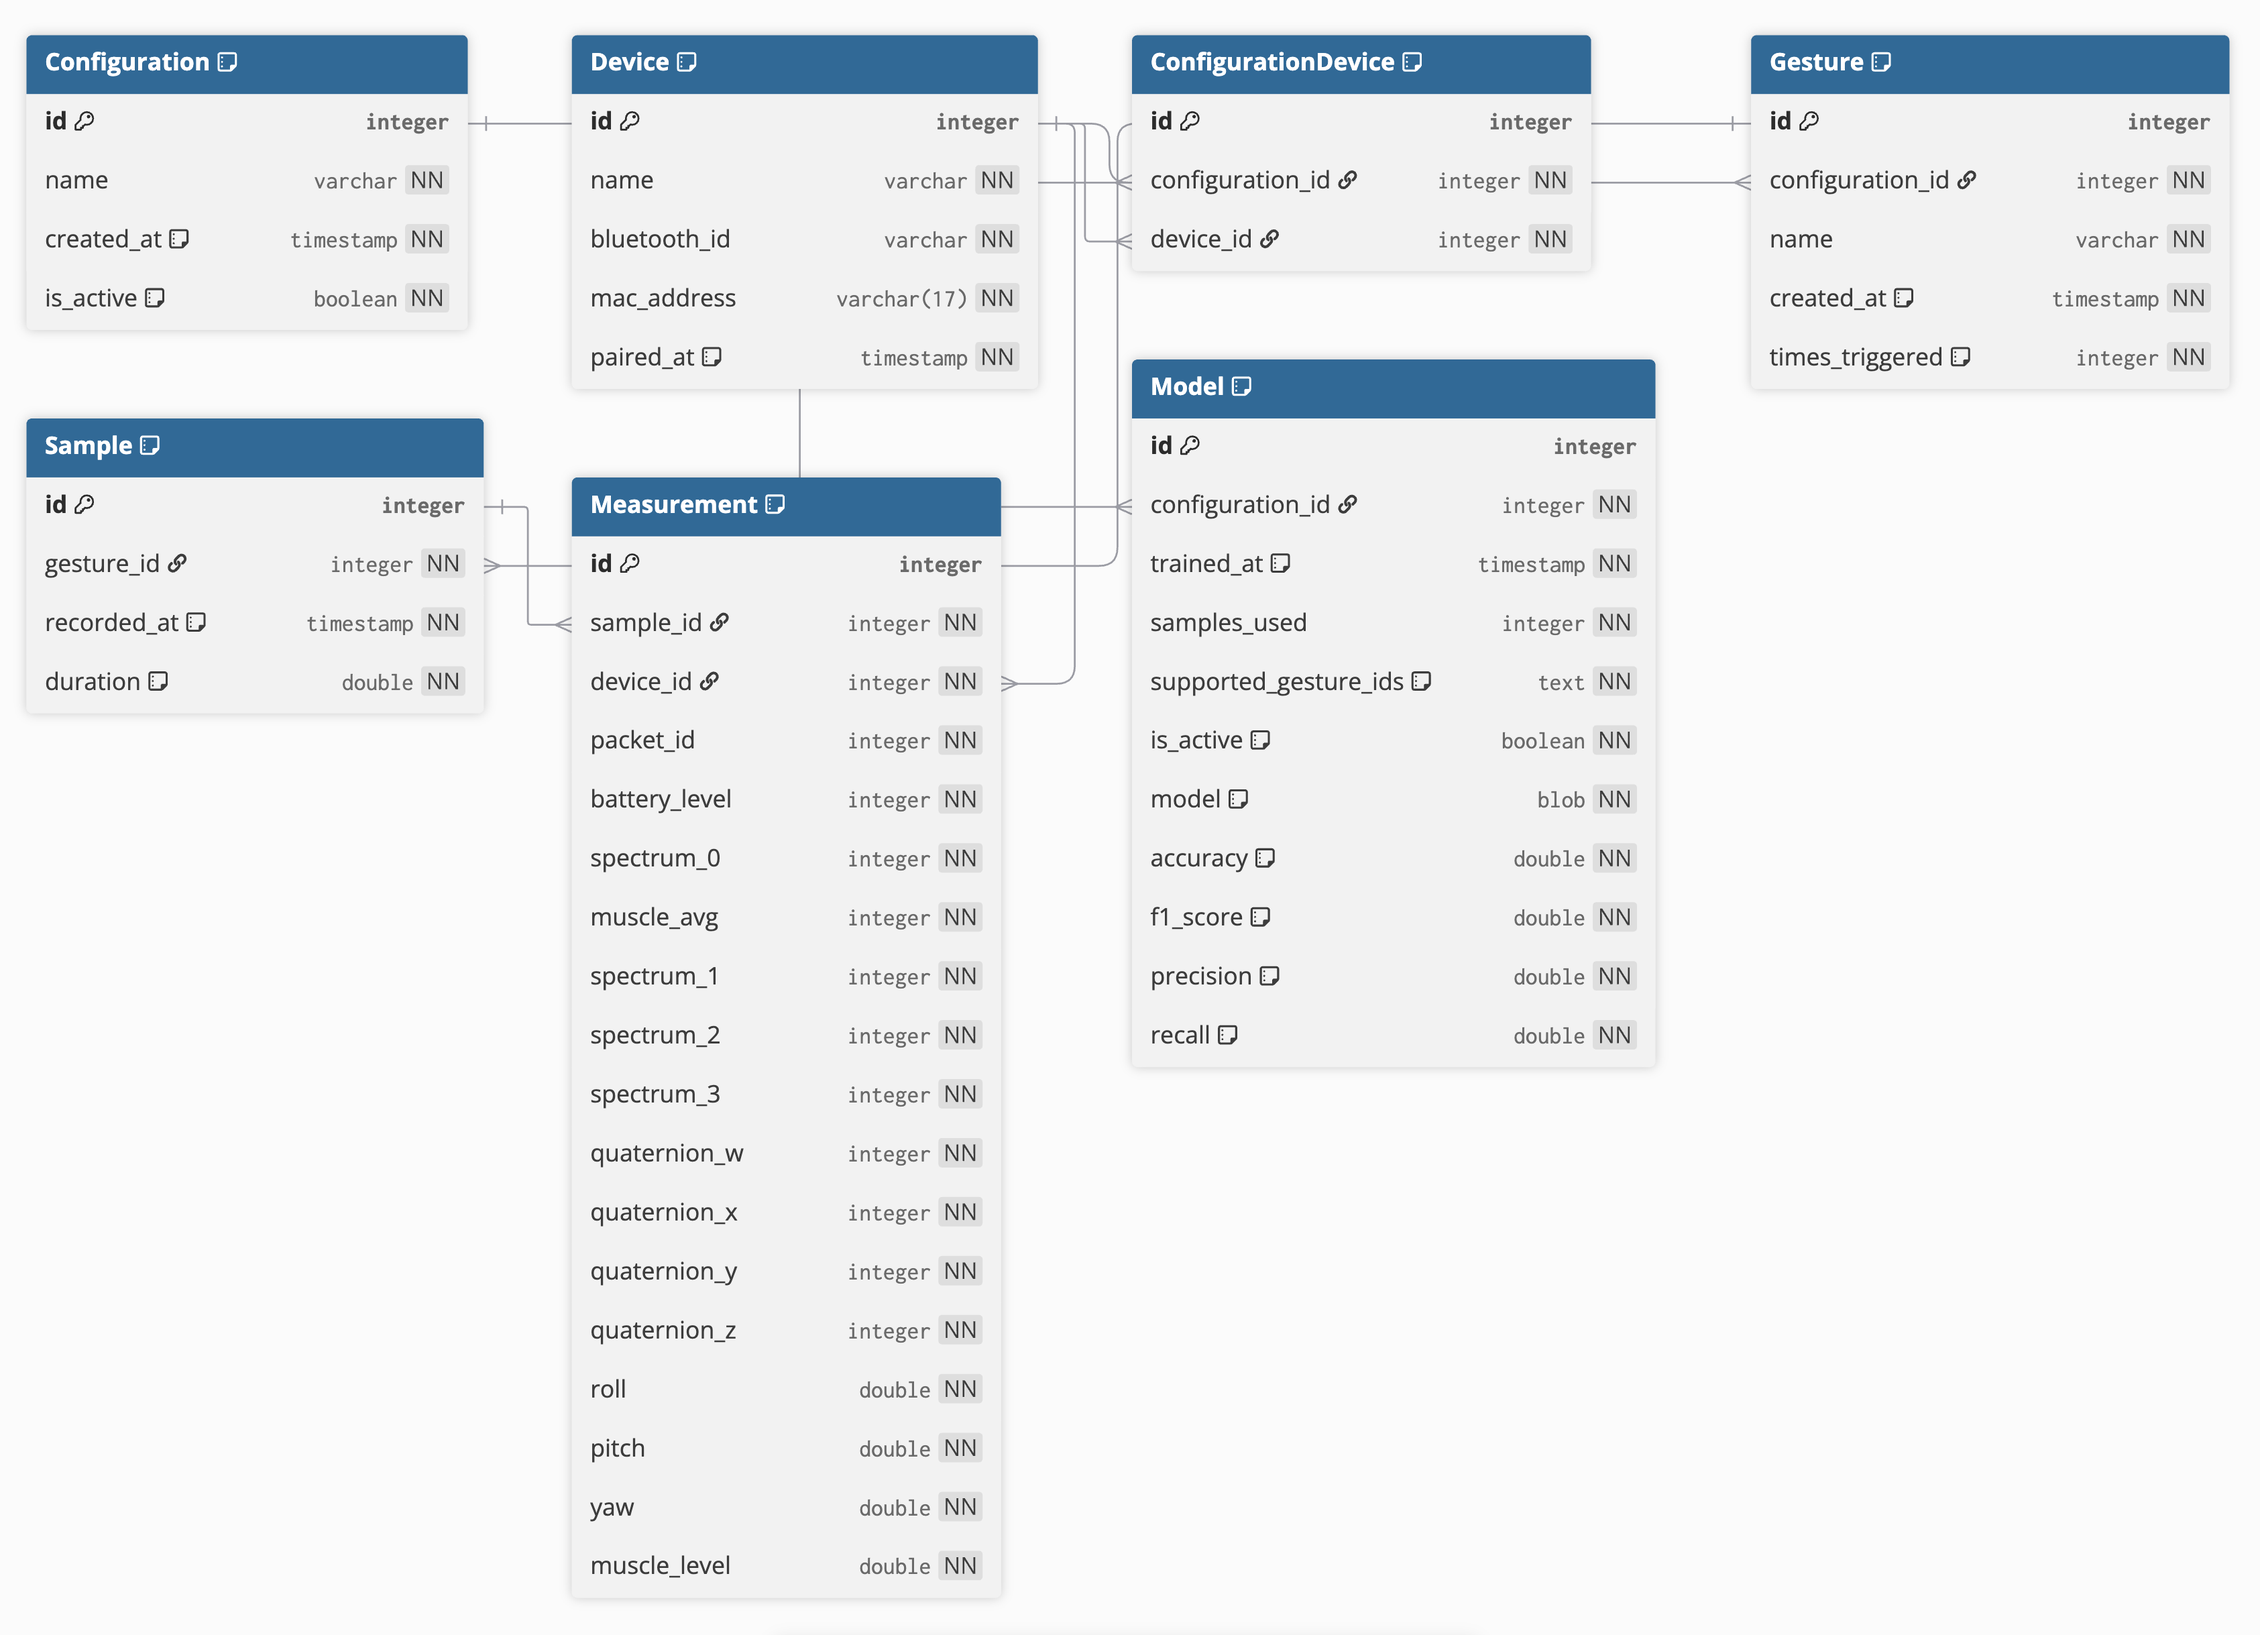
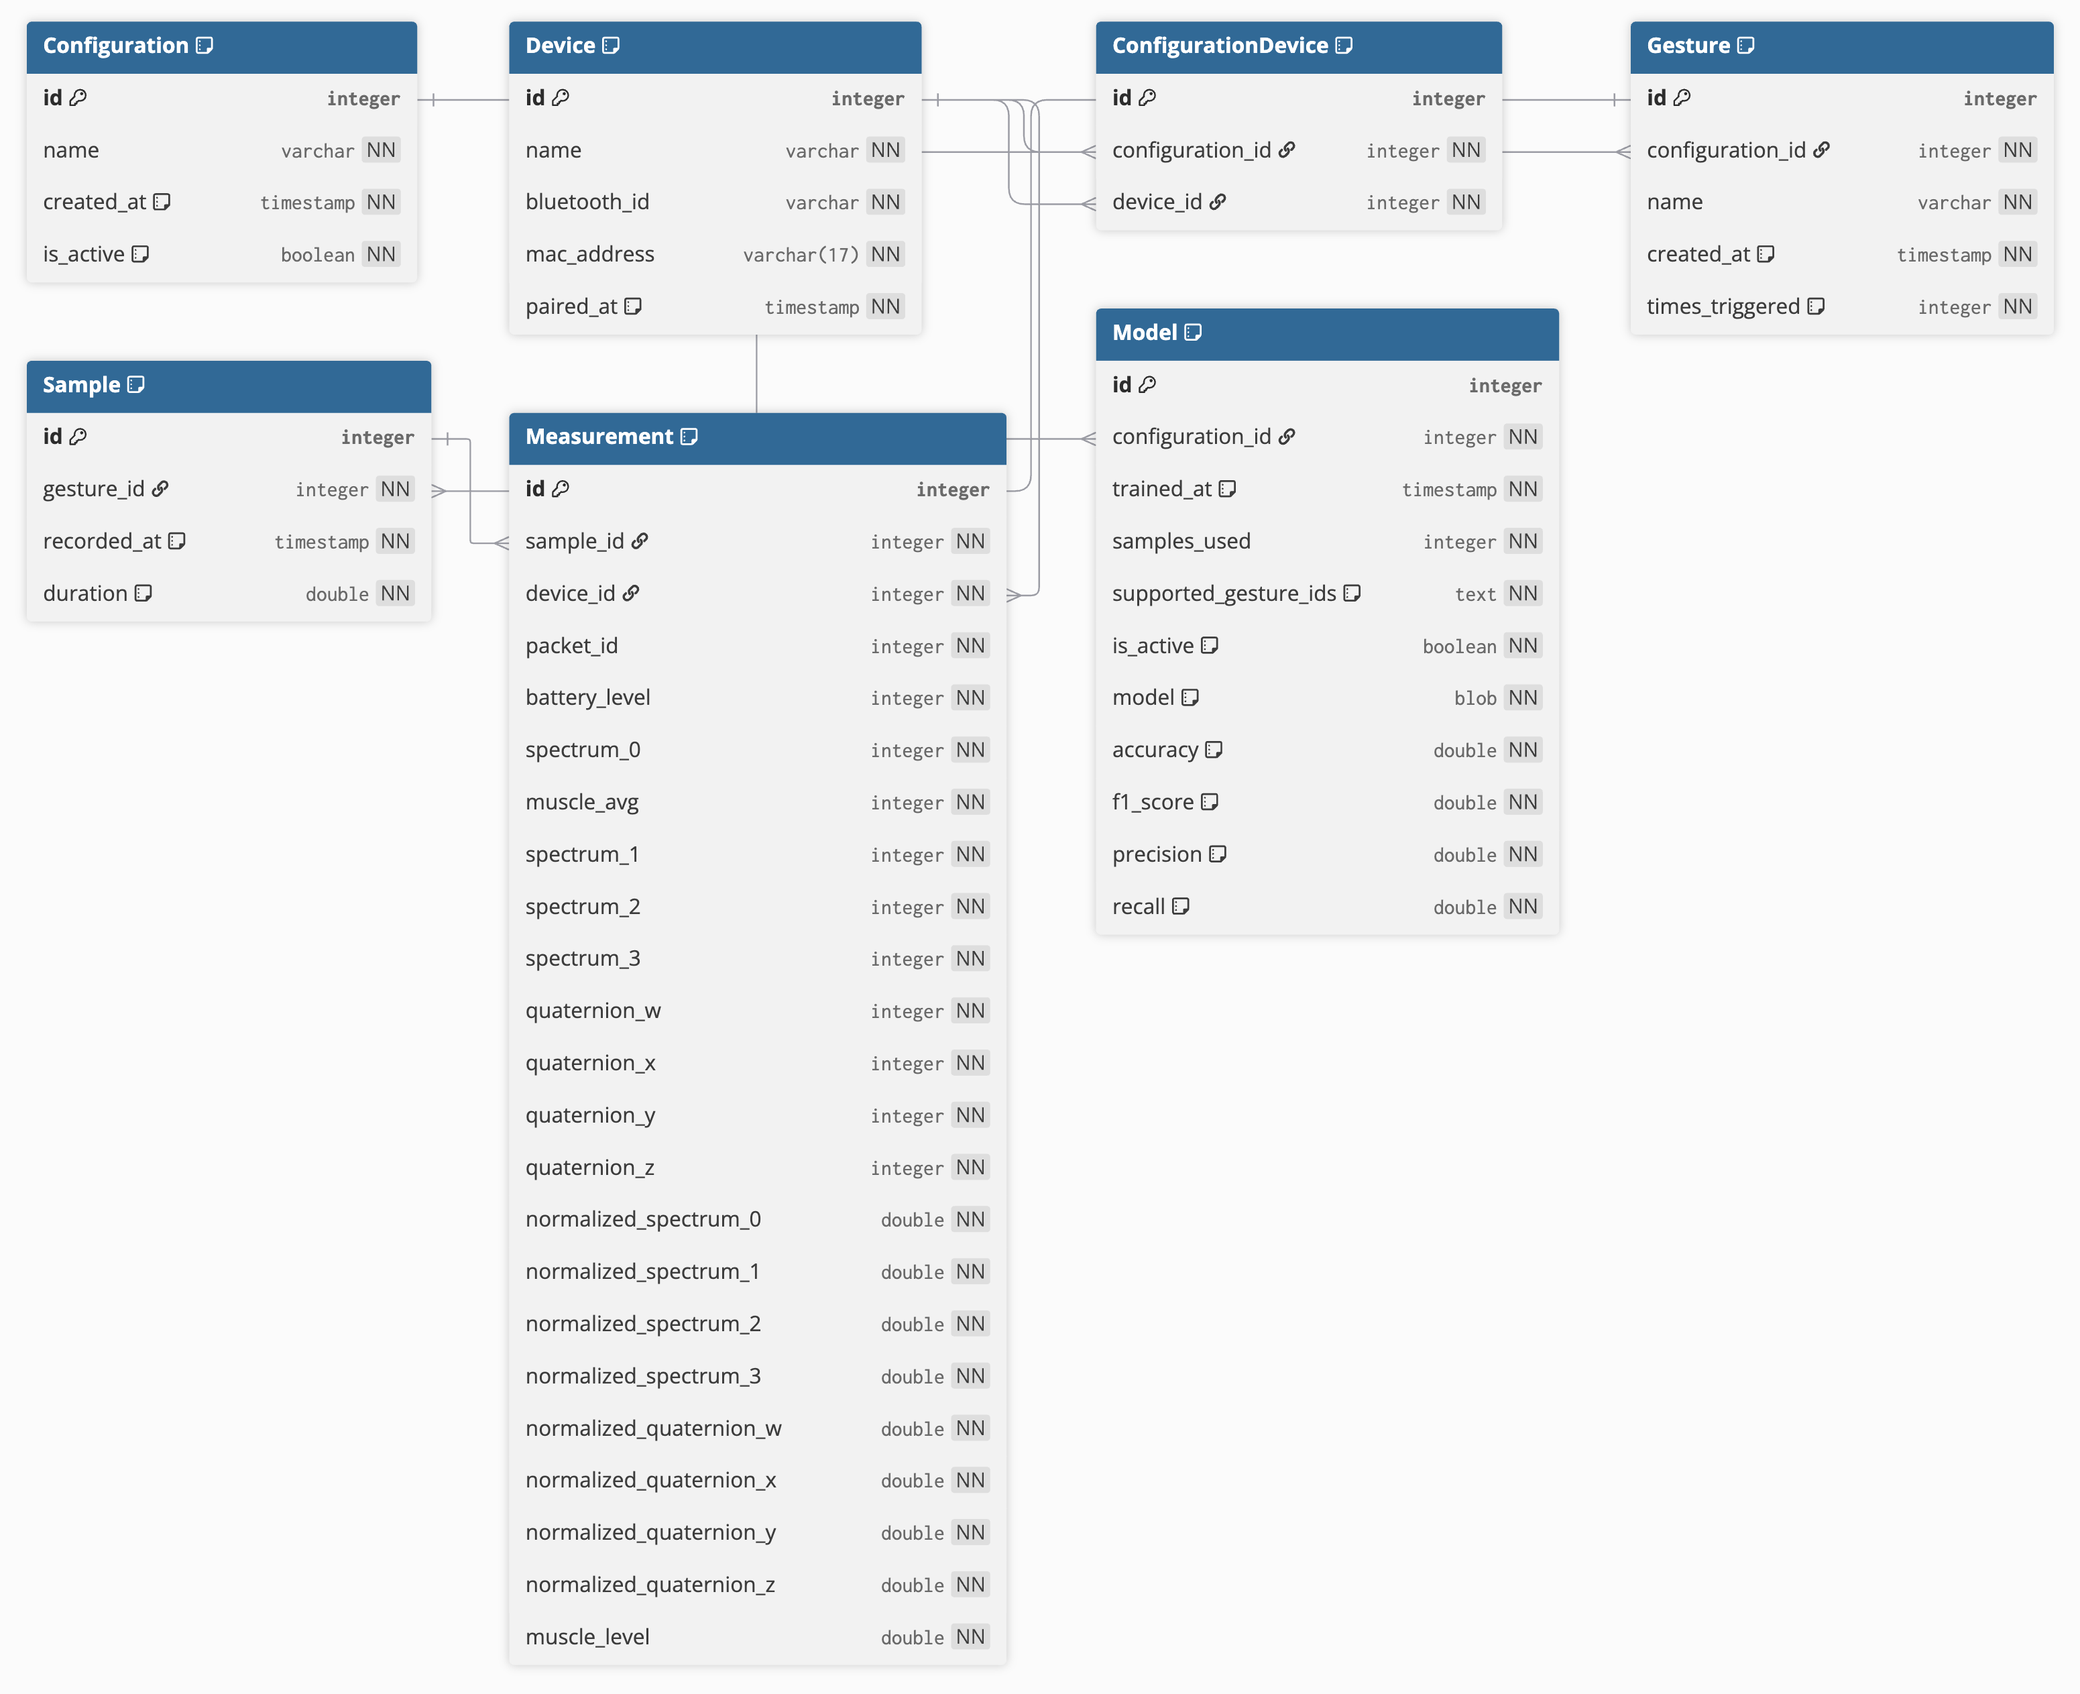
feat: store normalized data

diff --git a/ios/da-band/Types/SensorData.swift b/ios/da-band/Types/SensorData.swift
@@ -1,6 +1,8 @@
 import Foundation
+import SwiftUI
 
 struct SensorData {
+    // raw data
     let packetId: Int
     let batteryLevel: Int
     let spectrum0: Int16
@@ -13,31 +15,70 @@ struct SensorData {
     let quaternionY: Int16
     let quaternionZ: Int16
 
-    // AI generated, I don't understand quaternions
-    var normalizedQuaternion: (w: Double, x: Double, y: Double, z: Double) {
-        let w = Double(quaternionW)
-        let x = Double(quaternionX)
-        let y = Double(quaternionY)
-        let z = Double(quaternionZ)
+    // computed data
+    let normalizedSpectrum0: Double
+    let normalizedSpectrum1: Double
+    let normalizedSpectrum2: Double
+    let normalizedSpectrum3: Double
+    let normalizedQuaternionW: Double
+    let normalizedQuaternionX: Double
+    let normalizedQuaternionY: Double
+    let normalizedQuaternionZ: Double
 
-        let r = sqrt(w * w + x * x + y * y + z * z)
-        guard r > 0 else { return (1, 0, 0, 0) }
-
-        let m = 1.0 / r
-        return (w * m, x * m, y * m, z * m)
+    // as computed in the uMyo library -- using unnormalized spectrums
+    // may not be needed? we can try two models one with and one without
+    var muscleLevel: Double {
+        return spectrum2 + 2 * spectrum3
     }
 
-    // AI generated
-    // because of the orientation of the device:
-    //  - a roll irl results in a pitch
-    //  - a pitch irl results in a roll
-    var eulerAngles: (roll: Double, pitch: Double, yaw: Double) {
-        let q = normalizedQuaternion
-
-        let roll = atan2(2 * (q.w * q.x + q.y * q.z), 1 - 2 * (q.x * q.x + q.y * q.y))
-        let pitch = asin(2 * (q.w * q.y - q.z * q.x))
-        let yaw = atan2(2 * (q.w * q.z + q.x * q.y), 1 - 2 * (q.y * q.y + q.z * q.z))
-
-        return (roll, pitch, yaw)
+    // most of these is AI generated, I don't understand quaternions
+    var quaternionRotation: Angle {
+        let angle = 2 * acos(min(1.0, abs(normalizedQuaternionW))) // Clamp to prevent NaN
+        return .radians(angle)
     }
+
+    var quaternionAxis: (x: CGFloat, y: CGFloat, z: CGFloat) {
+        let sinHalfAngle = sqrt(1 - normalizedQuaternionW * normalizedQuaternionW)
+
+        // If w is negative, flip the axis to get the shorter rotation
+        let sign: Double = normalizedQuaternionW < 0 ? -1.0 : 1.0
+
+        // signs modified after testing to make sure its rotation matches IRL
+        return (
+            x: CGFloat(sign * normalizedQuaternionX / sinHalfAngle),
+            y: CGFloat(-sign * normalizedQuaternionZ / sinHalfAngle),
+            z: CGFloat(-sign * normalizedQuaternionY / sinHalfAngle)
+        )
+    }
+
+    static func normalizeQuaternion(w: Int16, x: Int16, y: Int16, z: Int16) -> (w: Double, x: Double, y: Double, z: Double) {
+        let dw = Double(w)
+        let dx = Double(x)
+        let dy = Double(y)
+        let dz = Double(z)
+
+        let magnitude = sqrt(dw * dw + dx * dx + dy * dy + dz * dz)
+        guard magnitude > 0 else { return (1, 0, 0, 0) }
+
+        let invMag = 1.0 / magnitude
+        return (dw * invMag, dx * invMag, dy * invMag, dz * invMag)
+    }
+
+    static func normalizeSpectrum(_ value: Int16) -> Double {
+        let minValue = Double(Int16.min)
+        let maxValue = Double(Int16.max)
+        return (Double(value) - minValue) / (maxValue - minValue)
+    }
+
+    // initially I was trying to follow the uMyo library and convert to euler angles first,
+    // but then I find using quaternions directly to be smoother, and better for ML too.
+    // var eulerAngles: (roll: Double, pitch: Double, yaw: Double) {
+    //     let q = normalizedQuaternion
+    //
+    //     let roll = atan2(2 * (q.w * q.x + q.y * q.z), 1 - 2 * (q.x * q.x + q.y * q.y))
+    //     let pitch = asin(2 * (q.w * q.y - q.z * q.x))
+    //     let yaw = atan2(2 * (q.w * q.z + q.x * q.y), 1 - 2 * (q.y * q.y + q.z * q.z))
+    //
+    //     return (roll, pitch, yaw)
+    // }
 }

diff --git a/ios/da-band/Views/Components/OrientationPreview.swift b/ios/da-band/Views/Components/OrientationPreview.swift
@@ -18,18 +18,24 @@ struct OrientationPreview: View {
                     )
                 )
                 .frame(width: 80, height: 30)
+                // using quaternions -- seems to be smoother
                 .rotation3DEffect(
-                    .radians(sensorData.eulerAngles.roll),
-                    axis: (x: 1, y: 0, z: 0)
+                    sensorData.quaternionRotation,
+                    axis: sensorData.quaternionAxis
                 )
-                .rotation3DEffect(
-                    .radians(sensorData.eulerAngles.yaw),
-                    axis: (x: 0, y: 1, z: 0)
-                )
-                .rotation3DEffect(
-                    .radians(sensorData.eulerAngles.pitch),
-                    axis: (x: 0, y: 0, z: 1)
-                )
+                // using euler angles
+                // .rotation3DEffect(
+                //     .radians(sensorData.eulerAngles.roll),
+                //     axis: (x: 1, y: 0, z: 0)
+                // )
+                // .rotation3DEffect(
+                //     .radians(sensorData.eulerAngles.yaw),
+                //     axis: (x: 0, y: 1, z: 0)
+                // )
+                // .rotation3DEffect(
+                //     .radians(sensorData.eulerAngles.pitch),
+                //     axis: (x: 0, y: 0, z: 1)
+                // )
                 .shadow(radius: 4)
         }
     }

diff --git a/ios/da-band/Services/BluetoothManager.swift b/ios/da-band/Services/BluetoothManager.swift
@@ -118,6 +118,9 @@ class BluetoothManager: NSObject, CBCentralManagerDelegate {
         let quaternionZ = Int16(data[index]) << 8
         index += 1
 
+        // Calculate normalized values using helper methods
+        let normalizedQuaternion = SensorData.normalizeQuaternion(w: quaternionW, x: quaternionX, y: quaternionY, z: quaternionZ)
+
         let sensorData = SensorData(
             packetId: packetId,
             batteryLevel: batteryLevel,
@@ -129,7 +132,15 @@ class BluetoothManager: NSObject, CBCentralManagerDelegate {
             quaternionW: quaternionW,
             quaternionX: quaternionX,
             quaternionY: quaternionY,
-            quaternionZ: quaternionZ
+            quaternionZ: quaternionZ,
+            normalizedSpectrum0: SensorData.normalizeSpectrum(spectrum0),
+            normalizedSpectrum1: SensorData.normalizeSpectrum(spectrum1),
+            normalizedSpectrum2: SensorData.normalizeSpectrum(spectrum2),
+            normalizedSpectrum3: SensorData.normalizeSpectrum(spectrum3),
+            normalizedQuaternionW: normalizedQuaternion.w,
+            normalizedQuaternionX: normalizedQuaternion.x,
+            normalizedQuaternionY: normalizedQuaternion.y,
+            normalizedQuaternionZ: normalizedQuaternion.z
         )
 
         return sensorData

diff --git a/README.md b/README.md
@@ -122,9 +122,14 @@ Table Measurement {
   quaternion_z integer [not null]
 
   // computed attributes
-  roll double [not null]
-  pitch double [not null]
-  yaw double [not null]
+  normalized_spectrum_0 double[not null]
+  normalized_spectrum_1 double [not null]
+  normalized_spectrum_2 double [not null]
+  normalized_spectrum_3 double [not null]
+  normalized_quaternion_w double [not null]
+  normalized_quaternion_x double [not null]
+  normalized_quaternion_y double [not null]
+  normalized_quaternion_z double [not null]
   muscle_level double [not null]
 
   Note: "Represents a single measurement from a specific device during sample recording. Includes both raw and computed attributes."
